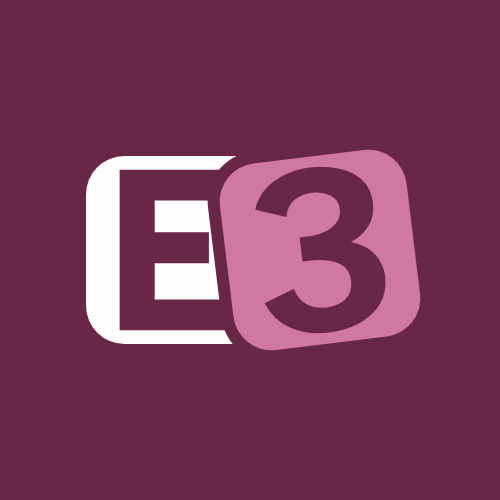
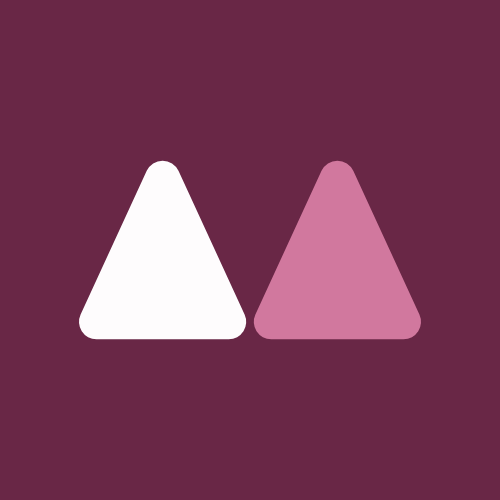
chore(design): re-sync m3l-design v1.3.0 and turn on the docs-site brand
v1.3.0 replaces the E and 3 logo with two equal peaks and adds the docs kit's
brand option. This syncs it and sets brand: true in docs.config.mjs, so the
docs site gets the favicon, the apple-touch icon and the symbol in its header.
The brand files keep the licence annotation added with v1.2.0.

Changed region(s): [[0.15, 0.3, 0.84, 0.72]]

diff --git a/design/source/docs-kit/site.css b/design/source/docs-kit/site.css
@@ -22,6 +22,52 @@
   border-bottom: var(--border-width-default) solid var(--color-border-subtle);
 }
 
+/* The MONTE3L symbol, when docs.config.mjs sets brand: true. Both themes are in the markup; one shows. */
+.m3l-site-brand {
+  display: inline-flex;
+  flex: none;
+  align-items: center;
+  border-radius: var(--radius-sm);
+}
+
+.m3l-site-brand:focus-visible {
+  outline: var(--focus-ring-width) solid var(--color-focus-ring);
+  outline-offset: var(--focus-ring-offset);
+}
+
+/* With the symbol present the header has three children; keep the nav beside it, not centred. */
+.m3l-site-brand + .m3l-nav {
+  margin-inline-end: auto;
+}
+
+.m3l-site-brand__img {
+  display: block;
+  width: auto;
+  height: var(--space-10);
+}
+
+.m3l-site-brand__img--dark {
+  display: none;
+}
+
+@media (prefers-color-scheme: dark) {
+  :root:not([data-theme="light"]) .m3l-site-brand__img--light {
+    display: none;
+  }
+
+  :root:not([data-theme="light"]) .m3l-site-brand__img--dark {
+    display: block;
+  }
+}
+
+:root[data-theme="dark"] .m3l-site-brand__img--light {
+  display: none;
+}
+
+:root[data-theme="dark"] .m3l-site-brand__img--dark {
+  display: block;
+}
+
 .m3l-site-layout {
   display: flex;
   align-items: flex-start;

diff --git a/design/source/brand/README.md b/design/source/brand/README.md
@@ -9,7 +9,9 @@ The brand is the system's own: Atkinson Hyperlegible Next Bold, the wine accent 
 
 ### The mark
 
-Two tiles, one for each half of the name. The **E** ends monte and is ink. The **3** starts 3l and is wine, tipped. A gap is cut between them, and the letters are cut out of the tiles, so the symbol has no background of its own and works on any ground.
+Two identical rounded peaks, one for each of the two people behind monte3l. The left is ink and the right is wine, with a gap between them. There is no letter in the symbol, so no initial can lead, and the two peaks are the same size and shape. The symbol has no background of its own and works on any ground.
+
+The wordmark is in one colour. The 3 is not picked out, because that would single out one half of the name.
 
 The name is set in capitals in the logo only. In running text, write **monte3l**, as in the GitHub organisation and every repository name.
 
@@ -22,7 +24,7 @@ The name is set in capitals in the logo only. In running text, write **monte3l**
 | `github/` | `avatar.png` (500 × 500) | The organisation avatar. Upload it in the organisation settings |
 | `social/` | `social-preview` (1280 × 640) and `og-image` (1200 × 630), each as SVG and PNG | The organisation card. `bin/build-brand.mjs --social <dir>` renders one per repository |
 
-The symbol has two cuts. Use `symbol-*` at 64 px and above. Below that, use the small cut in `favicon.svg`: larger tiles, a wider gap, a bigger letter and less tilt.
+There is one symbol at every size. `favicon.svg` is the same two peaks with its colours switched by `prefers-color-scheme`.
 
 ### Colours
 
@@ -30,8 +32,8 @@ All colours are design tokens, resolved by the build.
 
 | Role | Token | Light | Dark |
 | --- | --- | --- | --- |
-| E tile and wordmark | `color-text-primary` | `#1a1617` | `#faf5f7` |
-| 3 tile and the 3 in the wordmark | `color-accent-default` | `#692746` | `#d1789e` |
+| Left peak and wordmark | `color-text-primary` | `#1a1617` | `#faf5f7` |
+| Right peak | `color-accent-default` | `#692746` | `#d1789e` |
 | Icon and avatar ground | `color-accent-default`, light | `#692746` | `#692746` |
 
 | Pairing | Ratio |
@@ -40,19 +42,19 @@ All colours are design tokens, resolved by the build.
 | Wine on the light ground | 10.39:1 |
 | Ink on the dark ground (`#120e10`) | 17.76:1 |
 | Wine on the dark ground | 6.29:1 |
-| Pink 3 on the wine icon ground | 3.48:1 |
-| White E on the wine icon ground | 10.39:1 |
+| Pink right peak on the wine icon ground | 3.48:1 |
+| White left peak on the wine icon ground | 10.39:1 |
 
 The logo is exempt from the WCAG text contrast rule. These ratios are recorded because the mark is meant to clear 3:1 against every ground it sits on.
 
 ### Clear space and size
 
-- **Clear space:** keep one letter height of the E (about 0.43 of a tile) free on every side.
-- **Minimum size:** 24 px wide for the symbol, 96 px wide for the wordmark. Below 24 px, use the favicon cut only for a favicon.
+- **Clear space:** keep a quarter of the symbol's width free on every side.
+- **Minimum size:** 16 px wide for the symbol, 96 px wide for the wordmark.
 
 ### Do not
 
-- Recolour the tiles, swap the two colours or use a colour that is not a token.
+- Recolour the peaks, swap the two colours, make one peak larger or use a colour that is not a token.
 - Stretch, rotate, outline, add a shadow or put the mark on a busy image.
 - Set the wordmark in another typeface or change its tracking.
 - Redraw the symbol. Change `bin/lib/brand-geometry.mjs` and rebuild.
@@ -71,8 +73,8 @@ List `favicon.ico` first with `sizes="any"`, then the SVG, as web.dev recommends
 
 ```sh
 node bin/build-brand.mjs            # write every file; needs Chrome or Chromium for the PNGs and the ICO
-node bin/build-brand.mjs --check    # fail if an SVG or the manifest is stale, or a raster is missing
+node bin/build-brand.mjs --check    # fail if an SVG or the manifest is stale, a raster is missing, or the rasters' inputs changed
 node bin/build-design-tokens.mjs    # refresh SHA256SUMS, which covers this folder
 ```
 
-Set `CHROME` to a browser binary if none is found. The PNGs and the ICO are pinned by `SHA256SUMS` and are not reproducible byte for byte.
+Set `CHROME` to a browser binary if none is found. The PNGs and the ICO are not reproducible byte for byte, so `--check` compares a digest of everything fed to Chrome with `bin/brand-rasters.sha256`, which a full build rewrites. A change to the icon layout then fails `--check` until the rasters are rebuilt. `SHA256SUMS` pins the files themselves.

diff --git a/design/source/brand-book.md b/design/source/brand-book.md
@@ -304,29 +304,34 @@ treated as canonical when the two disagree.
 - Icons are decorative (`aria-hidden="true"`) whenever a text label next to
   them says the same thing.
 
-## Logo — Built (signed off 2026-10-22)
+## Logo — Built (signed off 2026-10-23, replaces the 2026-10-22 mark)
 
 **MONTE3L** is `giulmonte` (Giulia Montevecchi) and `enri3l` (Enrico Lionello)
-joined: monte + 3l. The E that ends "monte" and the 3 that opens "3l" sit at
-the join, so the mark is built from those two letters.
+joined: monte + 3l. The two people matter equally, and the name was chosen for
+that reason, so the mark has to show it.
 
-- **Symbol:** two rounded tiles, an E in ink and a 3 in wine, the 3 tipped
-  about 7 degrees and parted by a gap. The gap and both letters are cut out
-  of the tiles, so the symbol has no background colour and works on any
-  ground. Chosen over three other takes (mirror join, fused stroke, M3
-  monogram) because it is the one that stays recognisable as an avatar and
-  at 24 px.
-- **Letters:** Atkinson Hyperlegible Next Bold, outlined. The OFL FAQ (1.1,
-  1.13) says artwork made from a font's outlines is not subject to the OFL.
+The first mark paired an E and a 3. Both come from `enri3l`, and the E is also
+Enrico's initial, so it read as one founder's logo, not the organisation's.
+It was replaced before it was used anywhere that mattered.
+
+- **Symbol:** two identical rounded peaks side by side, parted by a gap, one in
+  ink and one in wine. It has no letter, so no initial can lead. The two peaks
+  are the two people, equal in size, shape and colour area. They also read as
+  an M, and monte is Italian for mountain. Chosen over three other takes (M3L
+  tiles, an overlap, an m3l monogram) because it holds up as an avatar and at
+  16 px, and stays readable in one colour.
 - **Wordmark:** MONTE3L in capitals, tracked +0.09em (the system's rule for
-  weight 700), the 3 in wine. Capitals are for the logo only. In running text
-  the name stays **monte3l**, as in the organisation and every repository.
+  weight 700), in one colour. The 3 is not picked out: that would single out
+  Enrico's half again. The letters are Atkinson Hyperlegible Next Bold,
+  outlined, and the OFL FAQ (1.1, 1.13) says artwork made from a font's
+  outlines is not subject to the OFL. Capitals are for the logo only. In
+  running text the name stays **monte3l**, as in the organisation and every
+  repository.
 - **Colour:** only tokens. Ink is `color-text-primary`, wine is
   `color-accent-default`, so the dark theme gets `#d1789e` for free. Wine on
-  the light ground is 10.39:1, on the dark ground 6.29:1.
-- **Small cut:** below 64 px the symbol uses larger tiles, a wider gap, a
-  bigger letter and less tilt. At 16 px the two letters blur into one shape.
-  That is accepted for a two-letter mark.
+  the light ground is 10.39:1, on the dark ground 6.29:1. The left peak is ink
+  and the right is wine. Neither colour is "the main one": both cover the same
+  area.
 - **Licence:** the logo files are all rights reserved, unlike the MIT code.
   See `brand/LICENSE.md`. The files, spec sizes and rebuild commands are in
   **Brand assets**.

diff --git a/design/source/docs-kit/README.md b/design/source/docs-kit/README.md
@@ -44,6 +44,7 @@ named by `--config`. The directory that holds the config is the repository root.
 | `exclude` | no | `{ glob, reason }` for tracked Markdown that is deliberately not a page |
 | `generators` | no | Modules that return pages that cannot come from Markdown |
 | `parity` | no | Modules that compare the documentation with the code |
+| `brand` | no | `true` to add the MONTE3L favicon links, a copy of `favicon.ico` at the site root, and the symbol, linked to the home page, in the header. Needs `<designDir>/source/brand/` from m3l-design v1.2.0 or later, and `--check` fails if a file is missing. Default `false` |
 | `manifest` | no | The `package.json` or `plugin.json` that `--metadata` and the homepage gate read |
 
 A generator default-exports `async ({ root, config }) => [{ out, group, label, html }]`.

diff --git a/design/README.md b/design/README.md
@@ -5,8 +5,8 @@ system for everything Enrico Lionello (`enri3l`) builds personally and
 everything published under the `monte3l` GitHub org.
 
 - **Source:** [github.com/monte3l/m3l-design](https://github.com/monte3l/m3l-design), release tag `v1.1.0`
-- **Version copied:** `v1.2.0`
-- **Last re-synced:** 2026-10-22
+- **Version copied:** `v1.3.0`
+- **Last re-synced:** 2026-10-23
 - **Date vendored into this repo:** 2026-09-26
 
 ## Governance: copy-based, not a live dependency
